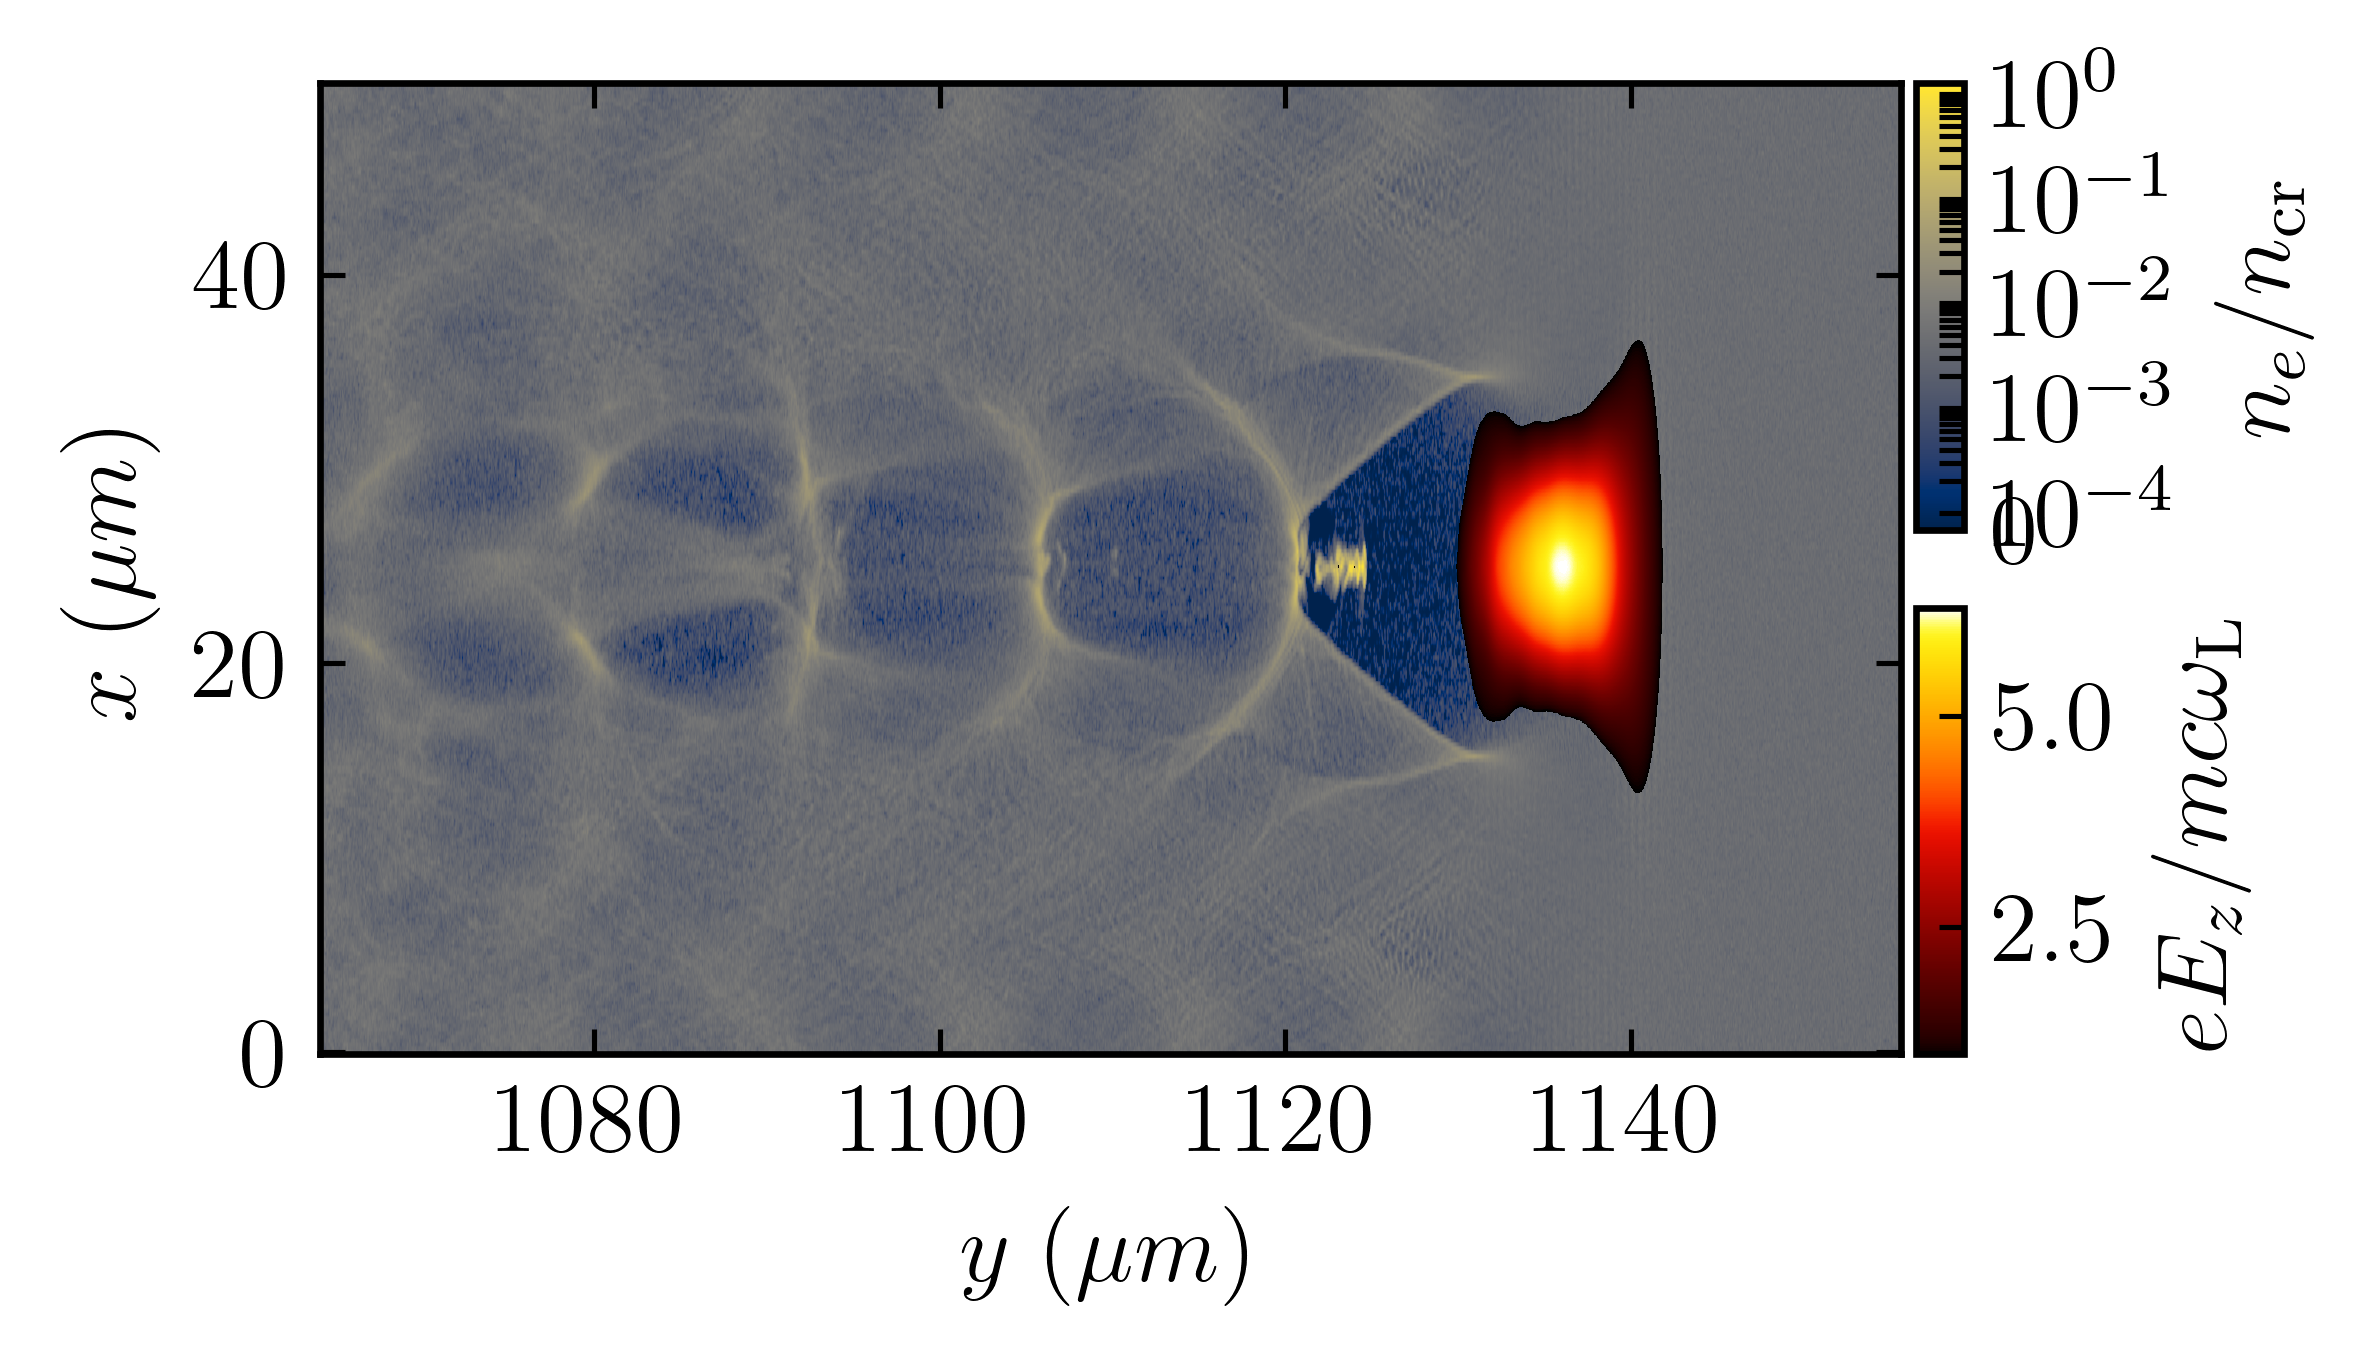
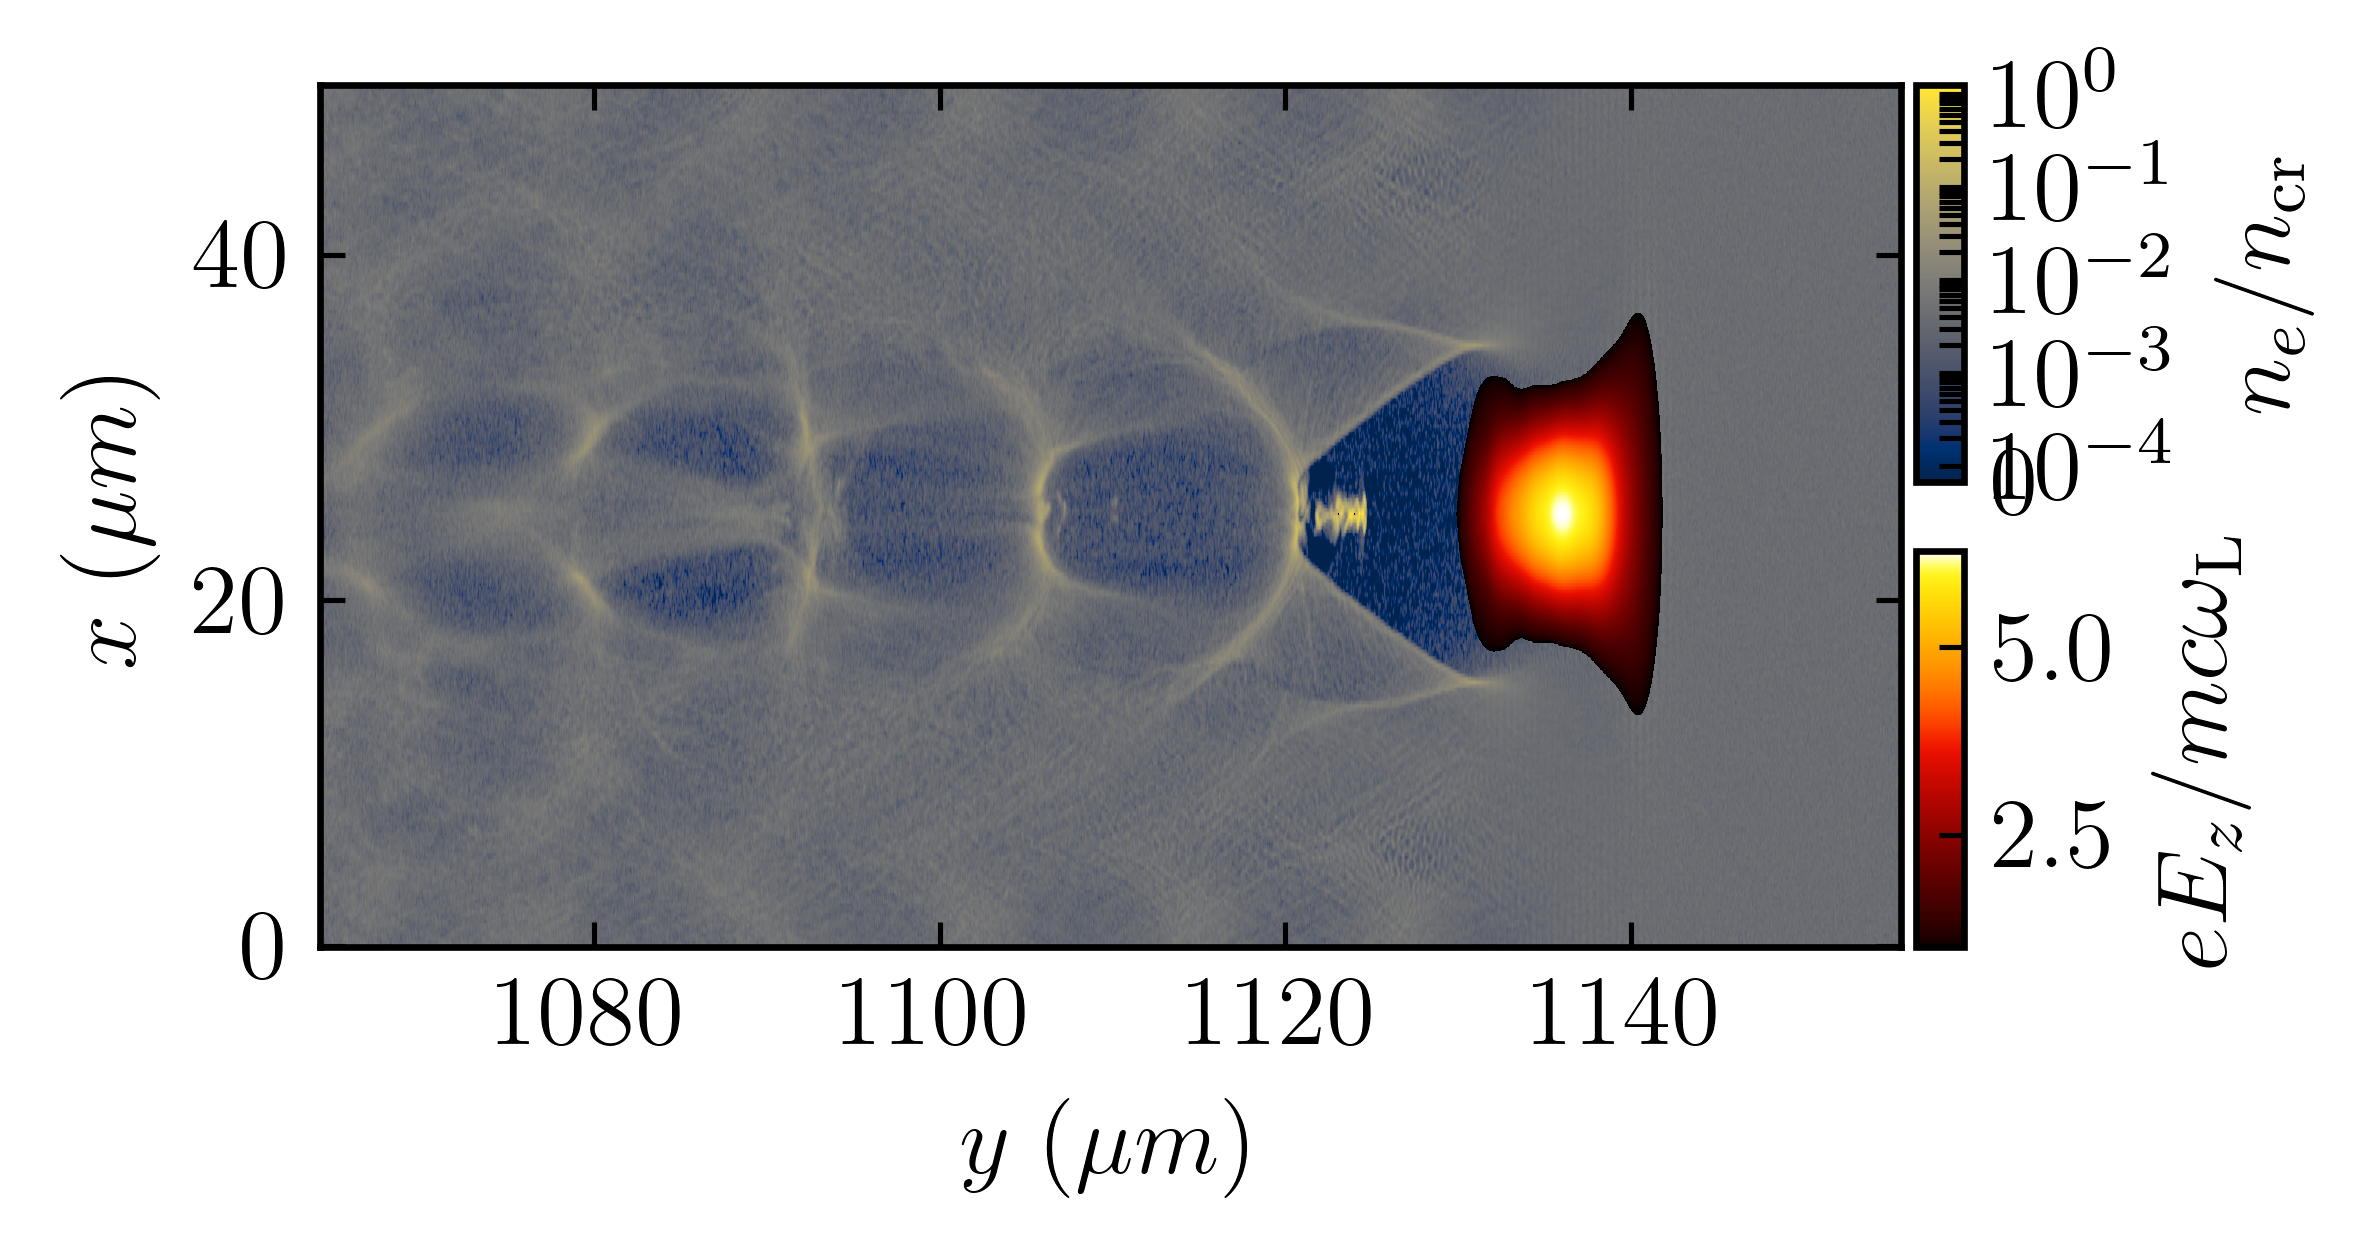
minor edit

diff --git a/laser_density.py b/laser_density.py
@@ -48,7 +48,7 @@ electric, electric_info = ts.get_field(
 )
 # get laser envelope
 # FIXME use ts.get_laser_envelope() once https://github.com/openPMD/openPMD-viewer/issues/292 is solved
-e_complx = hilbert(electric, axis=0)
+e_complx = hilbert(electric / E0, axis=0)
 envelope = np.abs(e_complx)
 
 
@@ -58,15 +58,13 @@ im_rho = ax.imshow(
     np.flipud(np.rot90(rho / n_c)),
     extent=np.roll(rho_info.imshow_extent * 1e6, 2),
     origin="lower",
-    aspect="auto",
     norm=colors.SymLogNorm(linthresh=1e-4, linscale=0.15, base=10),
     cmap=cm.get_cmap("cividis"),
 )
 im_envelope = ax.imshow(
-    np.flipud(np.rot90(envelope / E0)),
+    np.flipud(np.rot90(envelope)),
     extent=np.roll(electric_info.imshow_extent * 1e6, 2),
     origin="lower",
-    aspect="auto",
     cmap=my_cmap,
 )
 im_envelope.set_clim(vmin=1.0)
